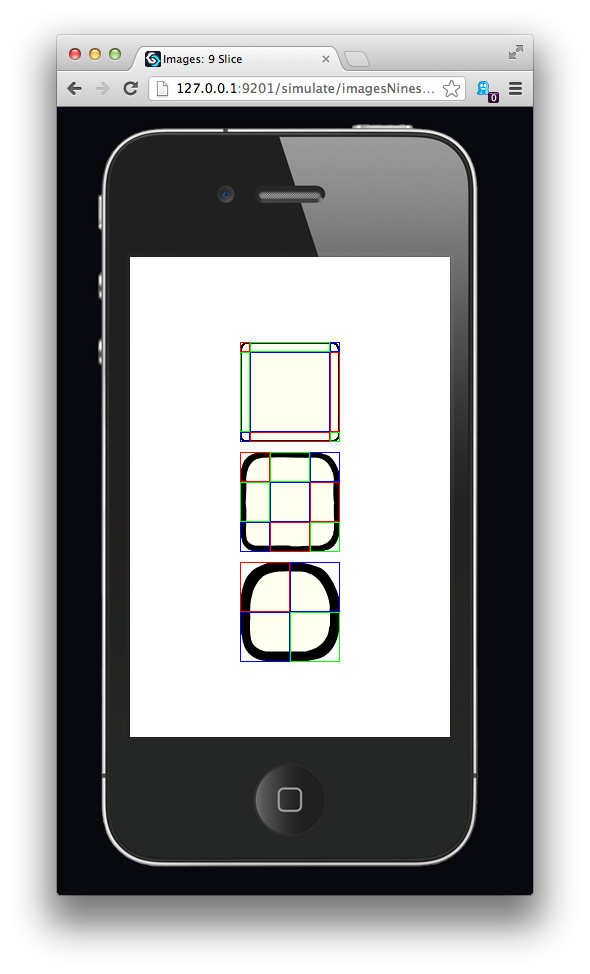
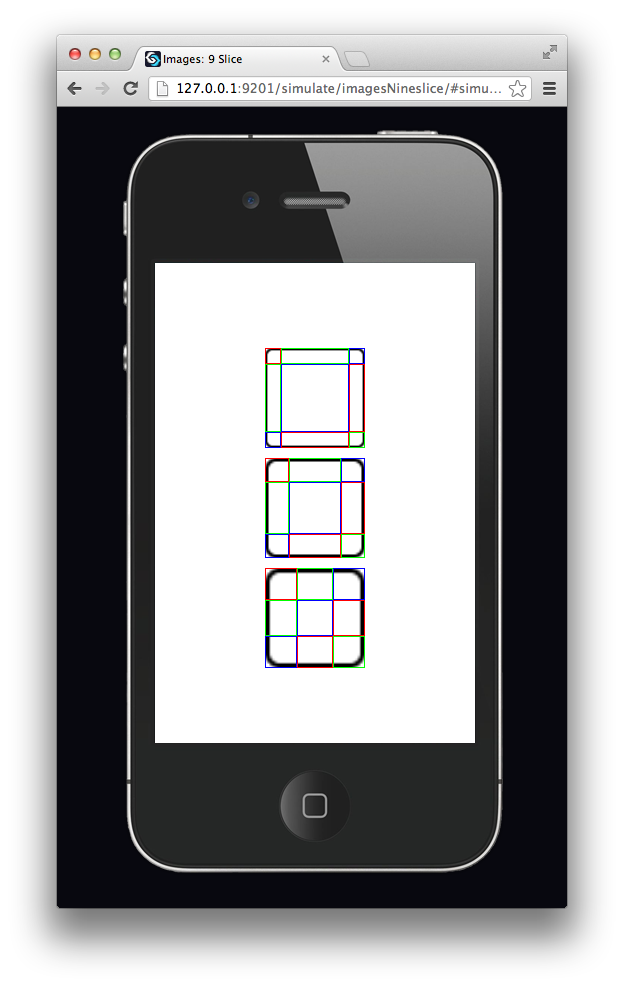
update images, new values for new image

Changed region(s): [[0.0915, 0.0308, 0.9153, 0.924], [0.3966, 0.3388, 0.6102, 0.6776]]

diff --git a/src/images/nine-slice/src/Application.js b/src/images/nine-slice/src/Application.js
@@ -15,7 +15,7 @@ exports = Class(GC.Application, function () {
 		this.style.backgroundColor = "#FFFFFF";
 
 		var y = device.height / 2 - 165;
-		for (var i = 0; i < 1; i++) {
+		for (var i = 0; i < 3; i++) {
 			new ui.ImageScaleView({
 				superview: this.view,
 				x: device.width / 2 - 50,
@@ -24,16 +24,14 @@ exports = Class(GC.Application, function () {
 				height: 100,
 				image: "resources/images/window.png",
 				scaleMethod: "9slice",
-				//debug: true,
+				debug: true,
 				sourceSlices: {
-					horizontal: {left: 32, center: 0, right: 32},
-					vertical: {top: 32, middle: 0, bottom: 32}
+					horizontal: {left: 16, center: 32, right: 16},
+					vertical: {top: 16, middle: 32, bottom: 16}
 				},
 				destSlices: {
-					horizontal: {left: 25, right: 25},
-					vertical: {top: 25, bottom: 25}
-					//horizontal: {left: 16 + i * 8, right: 16 + i * 8},
-					//vertical: {top: 16 + i * 8, bottom: 16 + i * 8}
+					horizontal: {left: 16 + i * 8, right: 16 + i * 8},
+					vertical: {top: 16 + i * 8, bottom: 16 + i * 8}
 				}
 			});
 		}

diff --git a/src/images/three-slice/src/Application.js b/src/images/three-slice/src/Application.js
@@ -26,10 +26,10 @@ exports = Class(GC.Application, function () {
 				scaleMethod: "3slice",
 				debug: true,
 				sourceSlices: {
-					horizontal: {left: 50, center: 100, right: 50}
+					horizontal: {left: 16, center: 32, right: 16}
 				},
 				destSlices: {
-					horizontal: {left: 10 + i * 20, right: 10 + i * 20}
+					horizontal: {left: 16 + i * 16, right: 16 + i * 16}
 				}
 			});
 
@@ -43,10 +43,10 @@ exports = Class(GC.Application, function () {
 				scaleMethod: "3slice",
 				debug: true,
 				sourceSlices: {
-					vertical: {top: 50, middle: 100, bottom: 50}
+					vertical: {top: 16, middle: 32, bottom: 16}
 				},
 				destSlices: {
-					vertical: {top: 10 + i * 20, bottom: 10 + i * 20}
+					vertical: {top: 16 + i * 16, bottom: 16 + i * 16}
 				}
 			});
 		}

diff --git a/src/images/two-slice/src/Application.js b/src/images/two-slice/src/Application.js
@@ -29,7 +29,7 @@ exports = Class(GC.Application, function () {
 					horizontal: {left: 50, right: 100}
 				},
 				destSlices: {
-					horizontal: {left: 10 + i * 20}
+					horizontal: {left: 20 + i * 20}
 				}
 			});
 
@@ -46,7 +46,7 @@ exports = Class(GC.Application, function () {
 					vertical: {top: 50, bottom: 100}
 				},
 				destSlices: {
-					vertical: {top: 10 + i * 20}
+					vertical: {top: 20 + i * 20}
 				}
 			});
 		}
